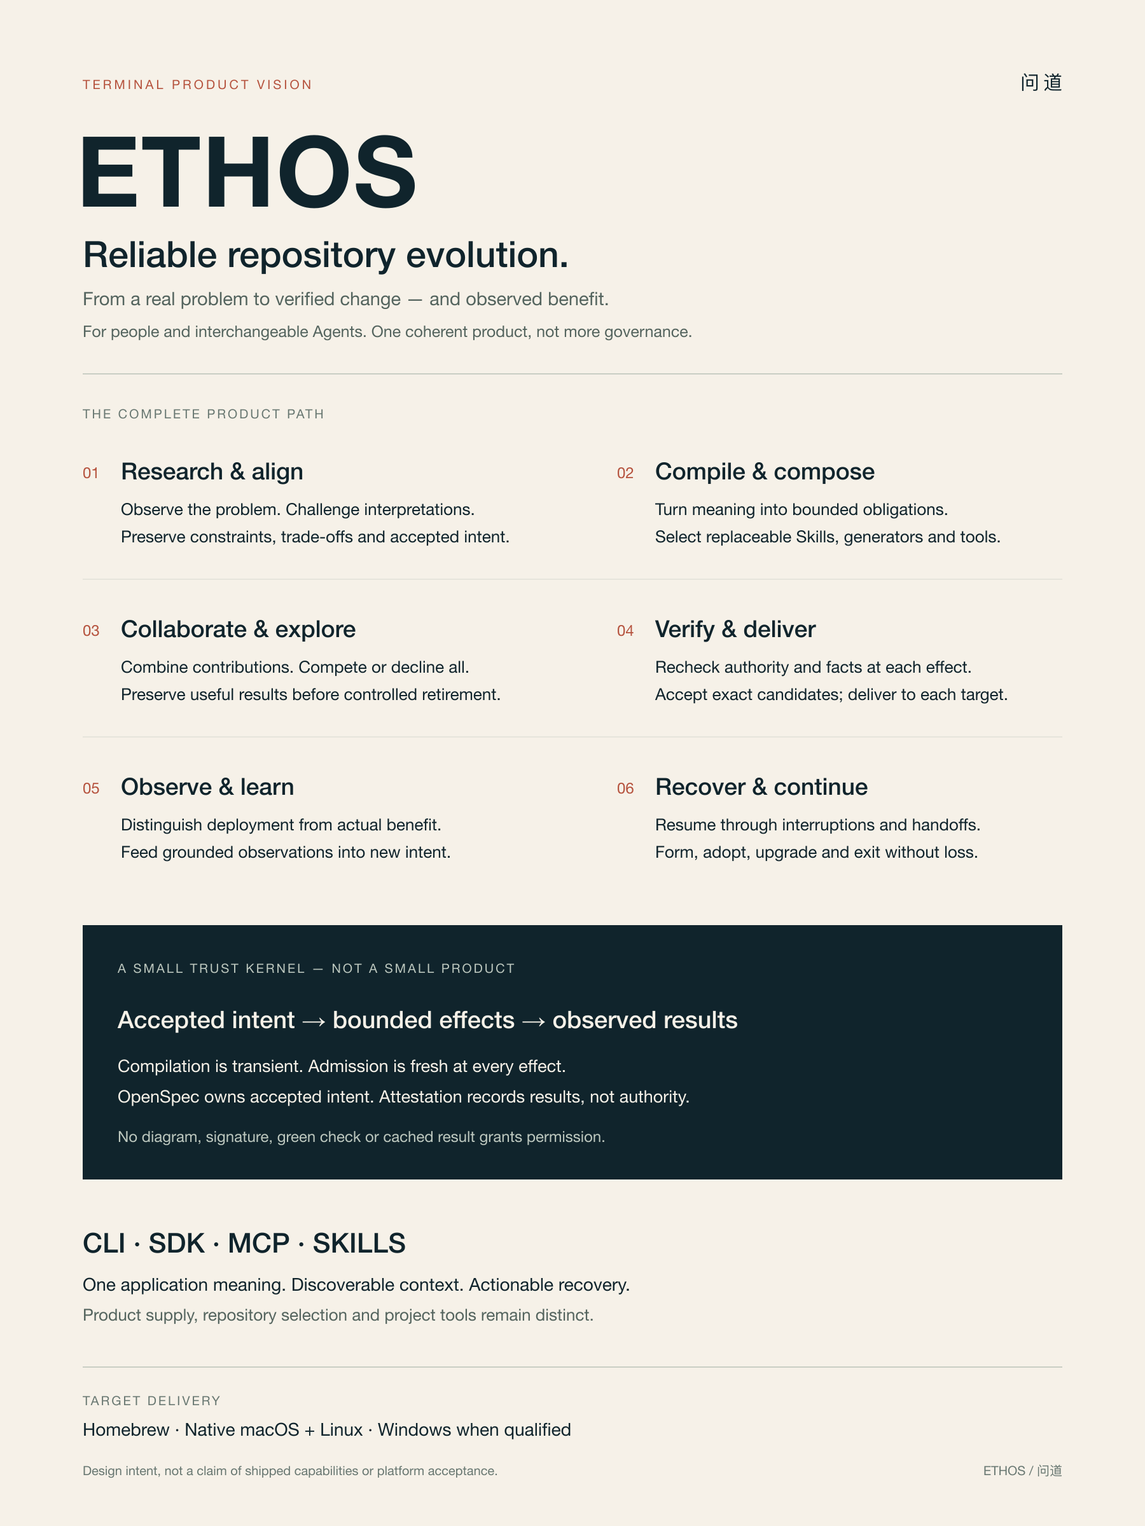
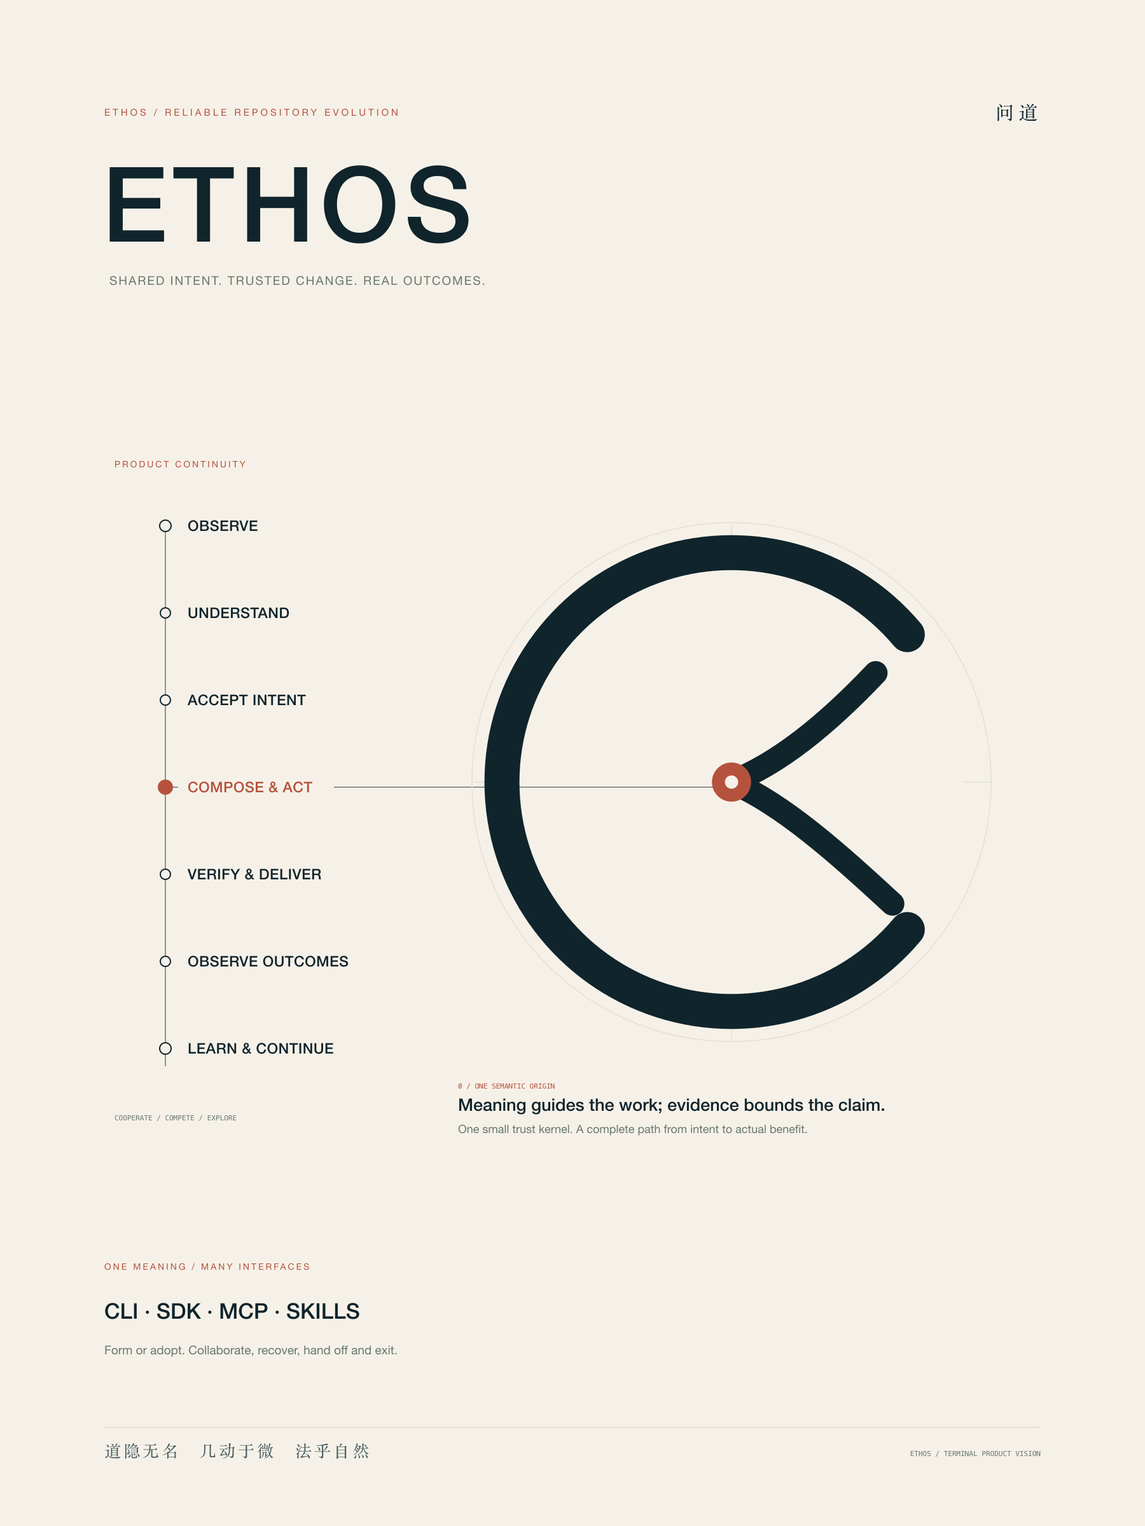
docs(product): align CLI transport and retain original visual language

diff --git a/openspec/changes/installed-product/design.md b/openspec/changes/installed-product/design.md
@@ -22,8 +22,8 @@ selections or merge their mutable state. Missing selection is actionable, not
 permission to run arbitrary checkout code or an ambient interpreter.
 
 CLI, SDK, MCP and Skills are coordinated delivery surfaces. CLI renders human or
-machine results; SDK exposes typed operations; the official MCP SDK provides
-protocol/session mechanics; Skills teach discovery and safe use of those same
+machine results; SDK exposes typed operations; FastMCP over the official MCP SDK
+provides protocol/session mechanics; Skills teach discovery and safe use of those same
 operations. Installed guidance includes its product identity, applicability and
 links to the target's accepted intent, rules and current continuation. Discovery
 does not grant authorization. Preserve authored adopter guidance, including
@@ -81,11 +81,12 @@ deployment boundaries, not prerequisites for local stdio.
   the returned EthosResult. SDK and MCP call that same operation directly.
   A subprocess CLI wrapper is rejected because it retains presentation coupling
   and adds parsing rather than removing it.
-- Use official MCP SDK 2.2.0, verified against release commit
-  9972c21aa42054fb1450c5fc614761ed11847ec6 on 2026-09-20.
-  Its MCPServer and Client APIs replace hand-written protocol/session handling.
-  The extra MCP CLI is unnecessary. Account for its transitive runtime closure,
-  supported Python floor and package cost before activation.
+- Select standalone FastMCP with strict input validation as the MCP framework,
+  over the official MCP SDK. Native tools, resources, schemas and transport
+  lifecycle replace manual Server callback assembly. Keep repository operations
+  and effect admission in their existing ETHOS owners. The isolated 4.0.5
+  comparison establishes input behavior, not installed-product qualification.
+  Account for its complete locked supply and use only required capabilities.
 - Bind one exact repository and the launcher process actor per MCP instance.
   Client arguments cannot select another root, change environment identity or
   turn an actor label into permission. Different repositories use independently
@@ -122,7 +123,7 @@ next action. Keep public result composition out of individual transports.
 
 Then complete extraction with CLI/SDK parity and no duplicated behavior.
 Then add the official protocol transport and real subprocess-client acceptance.
-Next qualify the installation builder through the common package workload,
+Next deliver the usable installed CLI through the common package workload,
 deliver the native Homebrew channel and matched Skills/context, and migrate
 shared host installation with exact repository version selection,
 prove retained-state upgrade/rollback/exit, and only then reclaim replaced
@@ -190,15 +191,91 @@ materializer. POSIX requirements must not silently claim Windows qualification.
 
 ## Product Presentation Projection
 
-Retain the established brand mark and consumer PNG paths. Replace the stale
-poster/social workflow claims with complete terminal product meaning, explicitly
-marked design intent. SVG masters and native librsvg rendering replace opaque
-raster-only authoring; they add no product authority or application dependency.
-Inspect actual raster sizes and visible content. Existing format gates remain
-distinct from semantic, aesthetic and hosted acceptance.
+Update meaning without replacing the original visual design. The poster retains
+its broad whitespace, thin left continuity axis and dominant right aperture mark;
+the social preview retains its left mark, right wordmark and quiet enclosing
+frame. Preserve proportions, restrained palette and typographic hierarchy.
+Replace only obsolete terminology, the fixed command sequence and the narrowed
+product definition. Do not substitute dense feature lists or generic text panels.
+
+Faithfulness preserves current product meaning and distinguishes terminal vision
+from delivered capability. Clarity requires understandable wording and readable
+relationships at the intended size. Elegance retains the original visual identity
+and removes needless detail. All three are required; format/schema success is
+not aesthetic acceptance. The preceding redesign was rejected and its presentation
+task is reopened. The revised assets remain candidates pending aesthetic review.
+
+SVG masters and native librsvg rendering retain the established PNG consumer paths;
+they add no product authority or application dependency. Actual raster inspection,
+source/output parity and hosted application are separate evidence boundaries.
 
 The adoption continuation repair has six original RED cases, 95 focused GREEN
 cases and six public subprocess CLI outcomes at the shared owner. Preview,
 missing authorization, stale HEAD, stale plan digest, conflict and applied state
 remain distinct; planner-owned next_action was removed. These source observations
 do not complete package, MCP, supported-platform or installed-client acceptance.
+
+## Strict Native MCP Boundary
+
+The official SDK 2.2.0 MCPServer and standalone FastMCP are distinct high-level
+implementations. The former's undeclared-argument observation cannot reject the
+latter. An isolated FastMCP 4.0.5 in-process client comparison exercised eight
+cases across flexible and strict modes. Both modes rejected undeclared root and
+actor fields before the probe body ran; strict mode additionally rejected a
+string Boolean, while valid typed output passed in both modes.
+
+Select FastMCP with strict_input_validation enabled. Remove the proposed manual
+Server callback assembly rather than layering both implementations. Reuse
+FastMCP's native registration, validation, schema generation, resources and
+transport handling; do not patch framework internals or maintain a second parser.
+This comparison has not exercised ETHOS effects, subprocess stdio, cancellation,
+recovery or packaged installation. Those remain mandatory acceptance boundaries.
+The existing fastmcp-contract-probe.log records the observations.
+
+Bind one exact root and the startup process actor. Verify framework-native
+execution and concurrency behavior before adding an adapter. No cancellation
+acknowledgement may imply completed cleanup while a worker can still mutate;
+protocol cancellation is not proof of effect rollback. Existing effect-time
+admission remains authoritative. The protocol
+adapter keeps application verdicts distinct from malformed requests and native
+transport failure. No global actor mutation, shell parser or task database.
+
+The native resolver locks FastMCP and its transitive closure. Direct AnyIO and
+MCP type imports are consumed by the thin protocol adapter, not a second runtime.
+HTTP, crypto, telemetry and optional task facilities are not automatically
+activated merely because a framework supplies them. Background tasks stay
+disabled. Installation and native platform behavior require separate acceptance.
+
+Root binding uses functools.partial over the existing application functions.
+Their annotations must resolve at runtime: retaining actual public types avoids
+a duplicated adapter signature or custom annotation resolver. EthosResult owns
+omission of absent governance_context for all native serializers; MCP does not
+maintain another output-shaping rule.
+
+The instance-local middleware rejects changed process identity and serializes
+its own tool calls. Native FastMCP/AnyIO synchronous execution drains before the
+next call. A request deadline includes queueing and checks cancellation again
+after native work drains; elapsed synchronous work cannot silently return
+success. Deadline or disconnect means the result was not acknowledged, not
+rollback. It is not a hard kill of native filesystem work, cross-process
+exclusion or forced-kill recovery. No custom thread supervisor or task store.
+
+The install-smoke owner runs a real client and server from the isolated installed
+wheel, checks discovery, strict root rejection, SDK parity and a fresh process
+reconnect. A unit test proving this probe is wired is not installed acceptance.
+
+Deliver the normal CLI installation and its version selection, upgrade and
+uninstall before expanding MCP beyond the current shared operations. Remaining
+SDK extraction and optional protocol capabilities must not indefinitely delay
+a usable CLI. Homebrew remains the required channel; do not substitute a shell
+alias or checkout-relative launcher.
+
+New command declarations and command consumers are distinct relations.
+Patch admission must permit an authorized native declaration without treating it
+as prior execution authority; undeclared consumers remain rejected. Repair this
+distinction at the existing patch/reference owner, not through alternate
+registration syntax, omitted checks or another command registry.
+
+In-process checks do not qualify stdio, installed lifecycle or hard-deadline
+behavior. Complete the real subprocess journey and retain every existing test
+obligation within the test budget before requesting complete acceptance.

diff --git a/docs/research/foundations/interfaces.md b/docs/research/foundations/interfaces.md
@@ -97,6 +97,67 @@ The current AIGW source and installed OpenSpec package illustrate different
 delivery mechanics; neither is authority for ETHOS design or proof of a current
 hosted release.
 
+## MCP Framework Selection Evidence
+
+September 21, 2026, Asia/Shanghai: the standalone FastMCP 4.0.5 comparison used
+its real in-process client with one typed probe tool, not an ETHOS mutation.
+Eight cases compared flexible and strict modes. Undeclared root and actor
+arguments were rejected without executing the body in both modes. A string
+Boolean was coerced in flexible mode and rejected before execution in strict
+mode. Valid calls retained structured output in both modes.
+
+This refutes the inference that the official SDK MCPServer's extra-argument
+behavior also describes standalone FastMCP. The installed-product Change selects
+FastMCP strict mode instead of manual low-level callback assembly. The comparison
+does not qualify subprocess transport, cancellation, effect recovery, package
+delivery or platforms. Its 66-package isolated environment is an observed supply
+closure, not proof that every package is necessary for ETHOS deployment.
+
+Evidence remains in the existing build/evidence/quality/commit-integrity output:
+fastmcp-contract-probe.log and the owned script under the recorded mcp-sdk-scratch
+root. Official [FastMCP tool validation][fastmcp-tools] documents strict mode;
+the measured behavior, not the documentation alone, supports this choice.
+
+## MCP Adapter Implementation Observations
+
+The owned Work Lane committed FastMCP supply as e9bf7d27d and the command
+declaration/consumer correction as 2bfca40b8. The accepted checkout and installed
+runtime remain unchanged. Candidate implementation is not installed acceptance.
+
+The declaration defect was reproduced through exact prewrite and then covered
+by eight positive/negative cases. Declaration alone no longer counts as a
+consumer; a candidate declaration still cannot authorize its new consumer.
+The related admission/projection suite passed 63 tests before commit.
+
+A real stdio client now exercises discovery, strict unknown-field and Boolean
+rejection, explicit-root isolation, authorized adoption, stale request rejection
+and fresh-process reconnect. MCP plus CLI regressions passed 42 tests. Later
+focused runs cover fixture consolidation and native cancellation; their counts
+overlap and are not independent evidence totals.
+
+FastMCP's native synchronous tool timeout was measured with a 20 ms deadline
+and 100 ms body: it returned success after about 144 ms. The adapter therefore
+adds a post-drain cancellation checkpoint under the same AnyIO deadline.
+Queued requests expire without entering their bodies, active native work drains,
+and a new observation remains usable. Four MCP cases passed after this repair.
+This does not prove hard interruption of blocked filesystem calls or recovery
+from every process-kill window.
+
+Existing test fixtures were consolidated by semantic responsibility, preserving
+distinct cases and assertions rather than excluding obligations. The latest
+measurement is 46,661 product and 49,972 test ELOC; both limits are 50,000.
+Native Ruff, dependencies, import boundaries, schemas and focused typing passed.
+The direct module-layout provider passed; its host-proof wrapper rejected an
+unfrozen source/index pair, so it was not reported as executed proof.
+
+Raw outputs remain under the existing commit-integrity evidence root:
+mcp-command-owner-tests.log, mcp-command-relation-red.log,
+mcp-command-relation-green.log, mcp-stdio-integration.log,
+mcp-deadline-red.log, mcp-deadline-green.log, mcp-final-focused.log and
+mcp-native-static-gates.log. The existing installed-product tasks own remaining
+work. Full proof, accepted integration, Homebrew and platform qualification
+remain separate and unproved.
+
 ## Sources
 
 Links identify inspected documents, not blanket endorsements. Source-level and
@@ -115,3 +176,5 @@ marketing claims were not used as evidence of comparative performance.
 [brew-python]: https://docs.brew.sh/Language-Specific-Formulae
 [uv-tools]: https://docs.astral.sh/uv/concepts/tools/
 [frozen-runtime]: https://pyinstaller.org/en/stable/runtime-information.html
+
+[fastmcp-tools]: https://gofastmcp.com/servers/tools

diff --git a/openspec/changes/installed-product/tasks.md b/openspec/changes/installed-product/tasks.md
@@ -8,7 +8,7 @@
 
 ## 2. Installed MCP Transport
 
-- [ ] 2.1 Add locked official SDK supply and the installed stdio entry; verify discovery and structured schemas with a real subprocess client.
+- [ ] 2.1 Add locked FastMCP supply and the installed stdio entry; distinguish new command declarations from undeclared consumers in native admission, then verify discovery and structured schemas with a real subprocess client.
 - [ ] 2.2 Bind repository and actor at startup; verify untrusted root/actor arguments cannot escape the binding.
 - [ ] 2.3 Verify valid observations, admitted mutation, denied and unknown results through CLI, SDK and MCP.
 - [ ] 2.4 Verify cancellation, deadlines, protocol-only stdout, client exit and reconnect without duplicate effects or orphan execution.
@@ -19,12 +19,12 @@
 - [ ] 3.1 Separate host immutable supply from exact repository selection; verify two repositories reuse bytes without sharing mutable state.
 - [ ] 3.2 Prove retained-state upgrade, interruption, rollback and live-consumer-safe uninstall outside the source checkout.
 - [ ] 3.3 Migrate existing runtime consumers and remove replaced locators/generations after exact dependency and recovery checks.
-- [ ] 3.4 Compare native Homebrew Python, portable interpreter/wheel and frozen bundle on the same complete lifecycle; resolve build warnings and record one selected implementation with rejected alternatives.
+- [ ] 3.4 Resolve the builder using native Homebrew Python, portable interpreter/wheel and frozen-bundle evidence against the same complete CLI lifecycle; record the selected implementation and rejected alternatives without blocking on optional MCP expansion.
 - [ ] 3.5 Publish the native Homebrew channel; verify clean install, CLI/MCP invocation, upgrade, selection preservation and uninstall from the actual delivered artifact.
 - [ ] 3.6 Qualify native macOS and Linux release targets, including declared architecture/OS baselines, hooks and recovery. Attempt native Windows without blocking required platforms; report unqualified targets explicitly.
 
 ## 4. Delivery
 
 - [ ] 4.1 Update installation, CLI/MCP and canonical plan projections from actual acceptance; keep unverified platform and hosted claims explicit.
-- [ ] 4.2 Run exact-source full proof, package and installed-client acceptance within existing budgets; finish normal integration and required publication.
-- [x] 4.3 Replace stale poster/social product semantics with editable native sources and regenerated images; inspect visible content and retain hosted publication as a separate claim.
+- [ ] 4.2 Consolidate repetitive test setup without removing distinct assertions to retain the 50,000 test ELOC budget; run exact-source full proof, package and installed-client acceptance, then finish normal integration and required publication.
+- [ ] 4.3 Update poster/social semantics while retaining the original mark, whitespace, proportions, palette and composition; verify faithful wording, readable rendering and aesthetic acceptance separately from format checks and hosted publication.

diff --git a/openspec/changes/installed-product/specs/command-plane/spec.md b/openspec/changes/installed-product/specs/command-plane/spec.md
@@ -102,3 +102,52 @@ authority to execute newly declared commands in the same candidate.
 - **WHEN** a patch declares a command and introduces a consumer requiring prior authority
 - **THEN** the new declaration does not silently expand the trusted baseline
 - **AND** the consumer remains blocked until its declaration is admitted
+
+## MODIFIED Requirements
+
+### Requirement: Public Command Plane
+ETHOS SHALL keep the normal user workflow under six public commands:
+`ethos adopt`, `ethos status`, `ethos plan`, `ethos prove`, `ethos land`, and
+`ethos publish`. Accepted-head admission is an exact `ethos land --closeout`
+operation, not a seventh workflow command or a hidden Git-hook procedure.
+The additional `ethos mcp --root <repo>` command SHALL launch a protocol transport
+over the same application operations without creating lifecycle authority.
+
+#### Scenario: Cyclopts exposes the terminal root surface
+- **WHEN** the root CLI help is rendered
+- **THEN** it exposes the six workflow commands and the MCP transport launcher
+- **AND** `ethos status` is the single bounded reader
+- **AND** maintainer mechanics remain hidden or semantically namespaced
+
+#### Scenario: TransitionPlan is the single transition projection
+- **WHEN** `ethos plan --json` compiles the current Commitment, repository
+  facts, and declared nodes
+- **THEN** it returns one deterministic `transition_plan`
+- **AND** no parallel workflow-runtime or domain-contract read model is emitted
+
+#### Scenario: Default payloads stay bounded
+- **WHEN** `ethos status --json` or `ethos plan --json` would exceed its declared
+  default payload budget
+- **THEN** the command preserves `verdict`, `state`, `summary`, `required_gaps`,
+  `next_action`, `continuation`, `missing_facts_or_evidence`, and
+  `user_decision_required`
+- **AND** oversized detail is replaced by a digest-bound artifact reference
+- **AND** no alternate reader command or truth source is introduced
+
+#### Scenario: a reader derives continuation
+- **WHEN** current authoritative facts are sufficient to select the next boundary
+- **THEN** the schema-version-`2` result preserves `state` and `required_gaps`,
+  exposes one `next_action`, and derives exactly one `continuation`: `continue`,
+  `await-user`, `blocked`, or `done`
+- **AND** `missing_facts_or_evidence` derives from `required_gaps` only when
+  `verdict=unknown`, while `user_decision_required` names required judgment
+- **AND** Continuation is recomputed rather than stored as lifecycle truth
+
+#### Scenario: accepted closeout remediation is directly executable
+- **WHEN** accepted-head admission is blocked by missing proof, missing external
+  verification, stale coordinates, or an unapplied exact effect
+- **THEN** status, plan, land, and hook projections SHALL expose the same single
+  complete `ethos ...` command
+- **AND** that command SHALL bind the current root, expected accepted HEAD,
+  candidate HEAD, and any required receipt path
+- **AND** it SHALL contain no prose-only instruction or placeholder token.

diff --git a/docs/reference/command-plane.md b/docs/reference/command-plane.md
@@ -34,10 +34,16 @@ ETHOS exposes exactly these public roots:
 | `ethos publish --ref <full-ref> --probe-remote --apply --authorize --expect-head <head> --json` | Derive and consume the same full-ref publication request. | Uses the same receipt-bound exact-CAS executor as explicit receipt apply. |
 | `ethos publish --receipt <path> --receipt-sha256 <digest> --apply --authorize --expect-head <head> --json` | Apply a previously derived full-ref publication request to its declared peers. | Rechecks local trust, target obligations and refs before each peer effect; returns attested partial or unknown outcomes rather than implying cross-peer atomicity. |
 | `ethos adopt --root <repo> --json` | Plan adoption for one repository. | Applying requires explicit authorization and an expected head. |
+| `ethos mcp --root <repo>` | Serve MCP over stdio for one exact repository. | Tool calls retain native admission; launching the transport grants no authority. |
 
-The public root anchors are `status`, `plan`, `prove`, `land`, `publish`, and
-`adopt`. No reader, report, provider, or historical projection adds another
-public root.
+The workflow roots are `status`, `plan`, `prove`, `land`, `publish`, and
+`adopt`. The additional `mcp` root launches a transport, not a seventh lifecycle.
+Its first tools are status and adoption over the same typed application owners;
+it does not yet project every operation. Root and process actor bind at startup.
+Strict tool inputs cannot replace either binding. Diagnostics stay on stderr;
+stdout is reserved for the protocol. Cancellation and deadline expiry do not
+mean rollback: reobserve before retrying an effect. Synchronous work drains
+before a queued successor executes; this is not a hard filesystem timeout.
 
 `status.data.hook_runtime` is the single hook-runtime
 inspection surface. It reports installed and expected source commit/tree,

diff --git a/docs/reference/brand-kit.md b/docs/reference/brand-kit.md
@@ -58,6 +58,19 @@ canonical owner, render and inspect the actual output at intended display sizes.
 Preserve logo geometry unless the identity itself changes. SVG/PNG format checks
 alone do not establish semantic accuracy, visual quality or hosted publication.
 
+## Faithfulness, Clarity And Elegance
+
+Refresh meaning without redesigning the identity. Retain the poster's whitespace,
+left continuity axis and dominant aperture mark, and the social preview's
+left-mark/right-wordmark composition and quiet frame. Preserve proportions,
+typographic hierarchy and the restrained palette.
+
+Replace obsolete terms and misleading command sequences with concise current
+meaning. Do not turn either asset into a dense feature inventory. A visual
+describes terminal intent without implying shipped capability. Native format
+checks and source/output parity do not substitute for readable, faithful and
+aesthetically accepted presentation.
+
 ## Mark Rationale
 
 The mark presents three repository-grounded ideas, not a feature map:

diff --git a/openspec/changes/installed-product/proposal.md b/openspec/changes/installed-product/proposal.md
@@ -8,7 +8,7 @@ transport from reusing behavior without importing presentation or parsing stdout
 ## What Changes
 
 - Extract existing application operations once and make CLI and SDK direct consumers.
-- Deliver the required installed stdio MCP surface using the official SDK, with
+- Deliver the required installed stdio MCP surface using FastMCP over the official SDK, with
   explicit repository and actor binding, structured results and bounded failures.
 - Separate reusable host installation from repository-selected immutable supply;
   preserve current policy, exact source identity and fresh effect admission.
